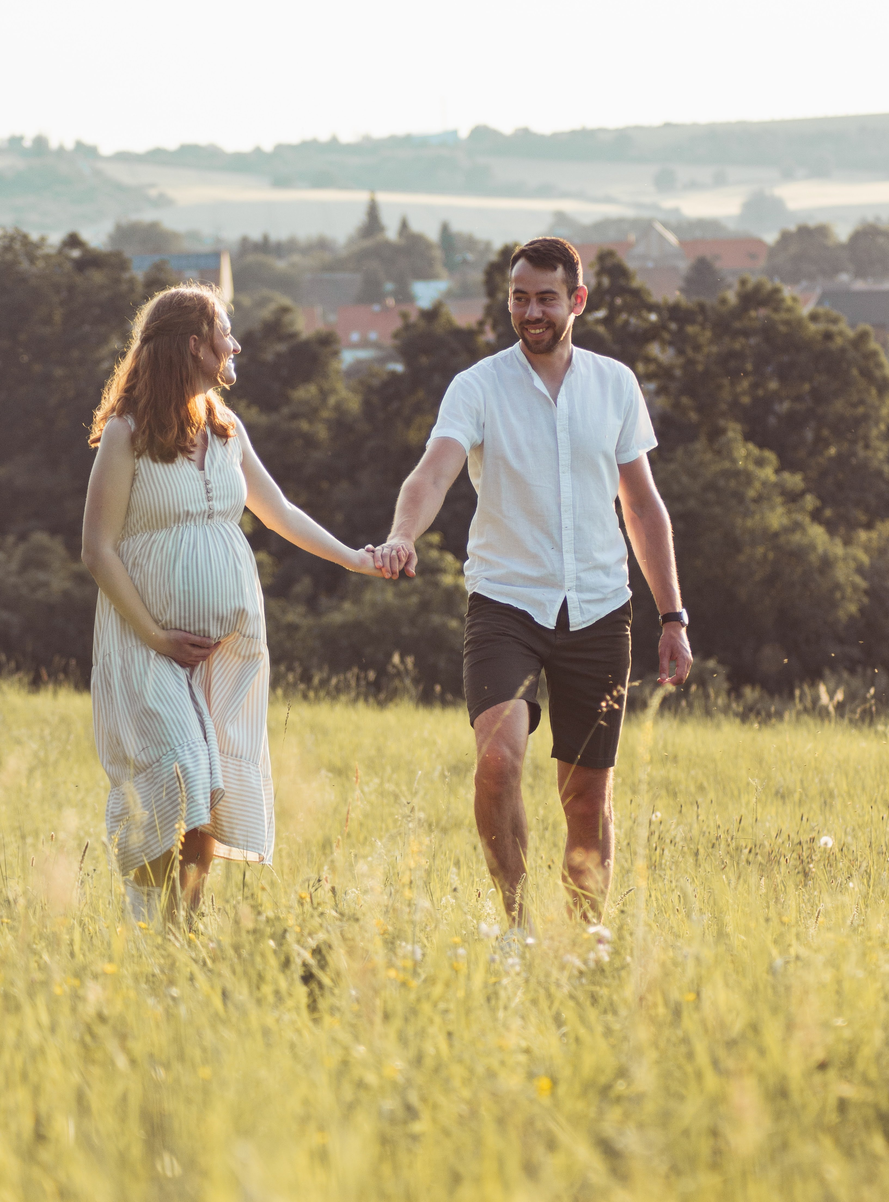
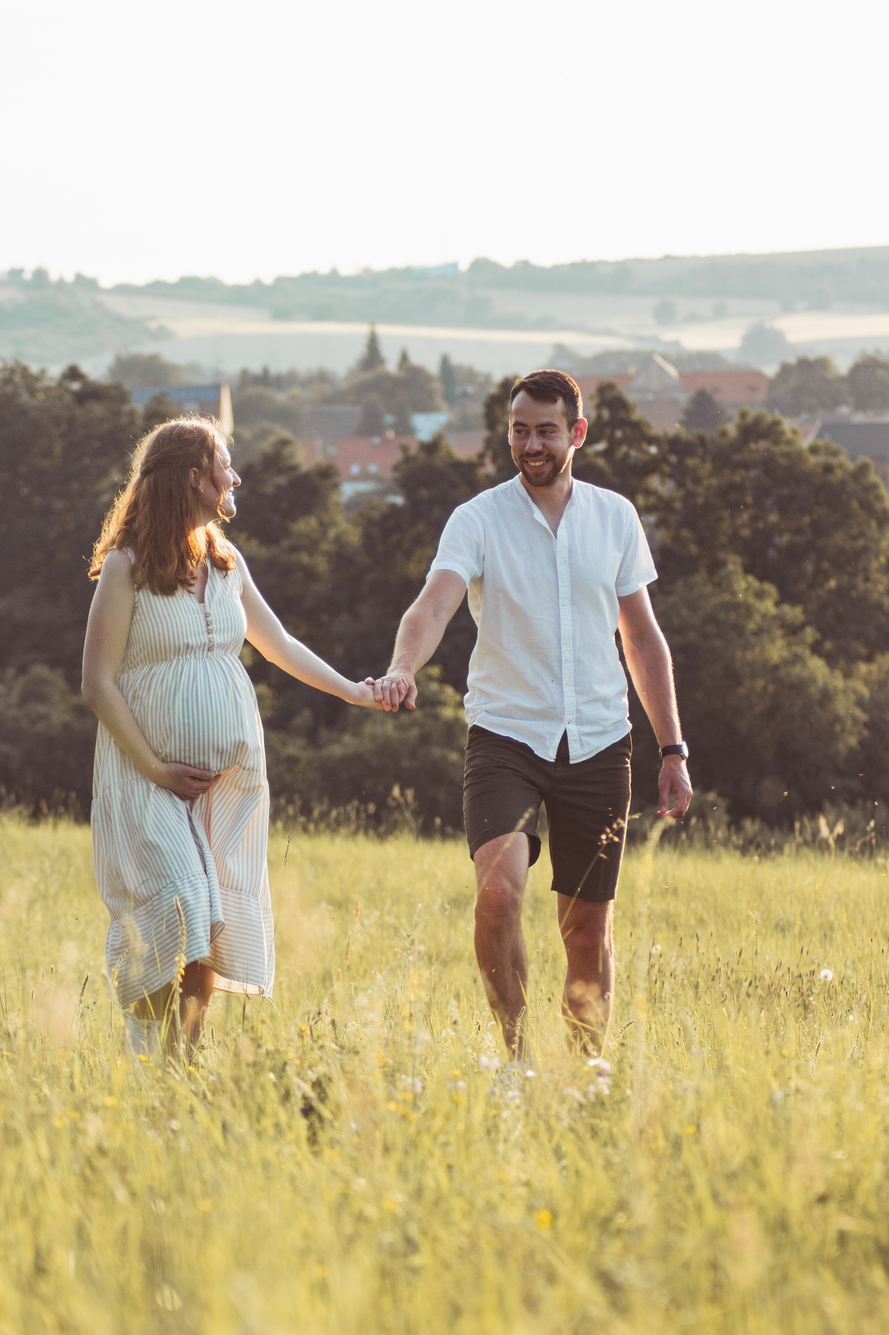
final touches - after consultation

diff --git a/src/components/fotos/Fotos.tsx b/src/components/fotos/Fotos.tsx
@@ -1,13 +1,72 @@
 import { Carousel } from '../atoms/carousel/Carousel';
 import './Fotos.scss';
-import photo1 from './images/kaja.jpg';
-import photo2 from './images/ondra.jpg';
-import photo3 from './images/1.jpg';
-import photo4 from './images/2.jpg';
-import photo5 from './images/ondra.jpg';
-import photo6 from './images/kaja.jpg';
+import photo1 from './images/1.jpg';
+import photo2 from './images/2.jpg';
+import photo3 from './images/3.jpeg';
+import photo4 from './images/4.jpeg';
+import photo5 from './images/5.jpeg';
+import photo6 from './images/6.jpeg';
+import photo8 from './images/8.jpeg';
+import photo9 from './images/9.jpeg';
+import photo10 from './images/10.jpeg';
+import photo11 from './images/11.jpeg';
+import photo12 from './images/12.jpeg';
+import photo13 from './images/13.jpeg';
+import photo14 from './images/14.jpeg';
+import photo15 from './images/15.jpeg';
+import photo16 from './images/16.jpeg';
+import photo17 from './images/17.jpeg';
+import photo18 from './images/18.jpeg';
+import photo19 from './images/19.jpeg';
+import photo20 from './images/20.jpeg';
+import photo21 from './images/21.jpeg';
+import photo22 from './images/22.jpeg';
+import photo23 from './images/23.jpeg';
+import photo24 from './images/24.jpeg';
+import photo25 from './images/25.jpeg';
+import photo26 from './images/26.jpeg';
+import photo27 from './images/27.jpeg';
+import photo28 from './images/28.jpeg';
+import photo30 from './images/30.jpeg';
+import photo31 from './images/31.jpeg';
+import photo32 from './images/32.jpeg';
+import photo33 from './images/33.jpeg';
+import photo34 from './images/34.jpeg';
 
-const images = [photo1, photo2, photo3, photo4, photo5, photo6];
+const images = [
+  photo1,
+  photo2,
+  photo3,
+  photo4,
+  photo5,
+  photo6,
+  photo8,
+  photo9,
+  photo10,
+  photo11,
+  photo12,
+  photo13,
+  photo14,
+  photo15,
+  photo16,
+  photo17,
+  photo18,
+  photo19,
+  photo20,
+  photo21,
+  photo22,
+  photo23,
+  photo24,
+  photo25,
+  photo26,
+  photo27,
+  photo28,
+  photo30,
+  photo31,
+  photo32,
+  photo33,
+  photo34,
+];
 
 export const Fotos = () => {
   return (

diff --git a/src/components/people/People.tsx b/src/components/people/People.tsx
@@ -1,9 +1,9 @@
 import { Person } from '../atoms/person/Person';
 import './People.scss';
-import fotoOndra from './images/ondra.jpg';
+import fotoOndra from './images/ondra.jpeg';
 import fotoKaja from './images/kaja.jpg';
-import fotoDrak from './images/kaja.jpg';
-import fotoRodice from './images/kaja.jpg';
+import fotoDrak from './images/drak.jpg';
+import fotoRodice from './images/rodice.jpg';
 
 export const People = () => {
   return (
@@ -12,10 +12,10 @@ export const People = () => {
         <div className="flowers flowers--people flowers--people--top"></div>
         <h2 className="people__heading h2">Významné osoby</h2>
         <div className="people__conteiner">
-          <Person foto={fotoOndra} name="Ondrášek" role="syn" />
+          <Person foto={fotoOndra} name="Ondrášek" />
           <Person foto={fotoKaja} name="Kája" role="svědkyně nevěsty" />
           <Person foto={fotoDrak} name="Drak" role="svědek ženicha" />
-          <Person foto={fotoRodice} name="Věrka + Jarda" name2="Zdenka + Pavel" role="rodiče" />
+          <Person foto={fotoRodice} name="Věrka + Jarda" name2="Zdeňka + Pavel" role="rodiče" />
         </div>
       </div>
     </div>

diff --git a/src/components/moreInfo/MoreInfo.tsx b/src/components/moreInfo/MoreInfo.tsx
@@ -167,6 +167,29 @@ const items = [
       </>
     ),
   },
+  {
+    id: 9,
+    title: 'Ostatní informace',
+    content: (
+      <>
+        <h4>Mazlíčci</h4>
+        <p>
+          Mazlíčci nejsou v areálu pivovaru povoleni. Vaše čtyřnohé kamarády tedy prosím nechte
+          doma.
+        </p>
+        <h4>Zásah do programu</h4>
+        <p>
+          Moc si vážíme vaší iniciativy, nápadů a chuti nás překvapit. Aby ale všechno krásně
+          zapadlo do programu a nic důležitého se nepřekrývalo, prosíme vás, abyste jakékoli
+          překvapení, hry nebo jiné zásahy do programu předem konzultovali se svědkyní nevěsty nebo
+          přímo s námi – snoubenci. Pomůžete nám tím udržet pohodovou atmosféru a zajistit, že si
+          svatební den společně užijeme naplno.
+        </p>
+        <h4>Únos nevěsty</h4>
+        <p>Nevěsta a ženich si nepřejí v programu únos nevěsty. Děkujeme za pochopení.</p>
+      </>
+    ),
+  },
 ];
 
 export const MoreInfo = () => {

diff --git a/src/components/footer/Footer.tsx b/src/components/footer/Footer.tsx
@@ -12,6 +12,11 @@ export const Footer = () => {
           <p className="footer__content--title">Ulož si datum a přijď si s námi tento den užít!</p>
           <p className="footer__content--text">Těšíme se na tebe!</p>
           <p className="footer__content--small">Pokud máš dotazy k svatbě, napiš nám.</p>
+          <div className="footer__content--email">
+            <p>nevěsta: luci.mukarovska@gmail.com</p>
+            <p>ženich: zbuzek.martin@gmail.com</p>
+            <p>svědkyně: k.mukarovska01@gmail.com</p>
+          </div>
         </div>
       </div>
     </div>

diff --git a/src/components/footer/Footer.scss b/src/components/footer/Footer.scss
@@ -36,7 +36,7 @@
       position: absolute;
       top: 0;
       right: 0;
-      background-color: #e7e7e79f;
+      background-color: #e7e7e7b6;
     }
   }
 
@@ -48,7 +48,7 @@
     width: 100%;
     flex-shrink: 0;
     text-align: center;
-    padding: 60px 30px 0;
+    padding: 60px 30px;
 
     @media screen and (min-width: 660px) {
       position: static;
@@ -68,7 +68,11 @@
     }
 
     &--small {
-      margin-bottom: 50px;
+      margin-bottom: 20px;
+    }
+
+    &--email {
+      @include m.text;
     }
   }
 }

diff --git a/src/components/whereSection/WhereSection.tsx b/src/components/whereSection/WhereSection.tsx
@@ -31,7 +31,7 @@ export const WhereSection = () => {
           />
           <Card
             title="Hostina s rodinou"
-            time="13:00"
+            time="14:00"
             place="Černokostelecký pivovar"
             city="Kostelec nad Černými lesy"
             map="https://mapy.com/en/zakladni?source=firm&id=1983521&ds=1&x=14.8649558&y=49.9979397&z=17"

diff --git a/src/components/atoms/person/Person.tsx b/src/components/atoms/person/Person.tsx
@@ -4,7 +4,7 @@ interface PersonProps {
   foto: string;
   name: string;
   name2?: string;
-  role: string;
+  role?: string;
 }
 
 export const Person = ({ foto, name, name2, role }: PersonProps) => {

diff --git a/src/components/clothesSection/ClothesSection.scss b/src/components/clothesSection/ClothesSection.scss
@@ -41,7 +41,7 @@
       border-radius: 8px;
 
       &--green {
-        background-color: #a3b08c;
+        background-color: #b8c1a6;
       }
 
       &--greenDark {
